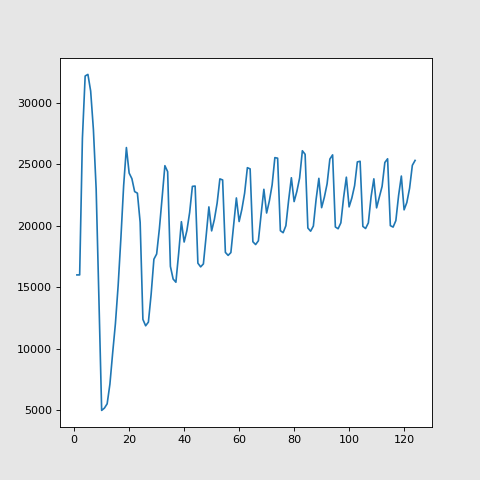
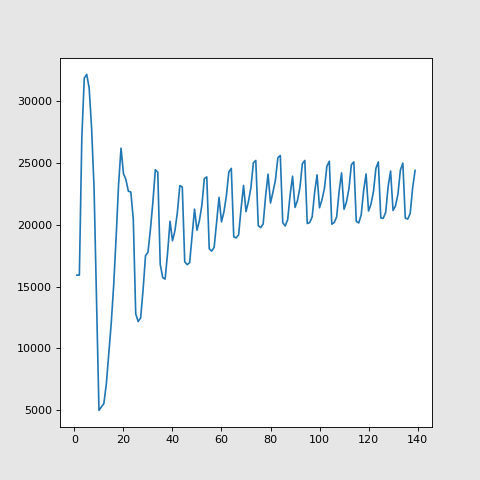
Что то происходит

diff --git a/lab2/src/organisms_1.py b/lab2/src/organisms_1.py
@@ -79,21 +79,23 @@ class CellularAutomaton:
         for i in range(self.N):
             for j in range(self.N):
                 if self.cells_state[i][j] == 1 and move[i][j] == 1:
-                    si = random.randint(-1, 1)
-                    sj = random.randint(-1, 1)
-                    if si == 0 and sj == 0:
-                        si = 1
-                    if i + si >= 0 and i + si < self.N and j + sj >= 0 and j + sj < self.N:
-                        if self.cells_state[i + si][j + sj] == 0:
-                            self.cells_state[i][j] = 0
-                            self.cells_state[i + si][j + sj] = 1
-                            move[i + si][j + sj] = 0
-                            self.e[i + si][j + sj] = self.e[i][j]
-                            self.life[i + si][j + sj] = self.life[i][j]
-                            self.e[i][j] = 0
-                            self.life[i][j] = 0
+                    directions = [(di, dj) for di in [-1, 0, 1] for dj in [-1, 0, 1] if not (di == 0 and dj == 0)]
+                    random.shuffle(directions)
 
-        # Размножение клеток
+                    for si, sj in directions:
+                        ni, nj = i + si, j + sj
+                        if 0 <= ni < self.N and 0 <= nj < self.N:
+                            if self.cells_state[ni][nj] == 0:
+                                self.cells_state[i][j] = 0
+                                self.cells_state[ni][nj] = 1
+                                move[ni][nj] = 0
+                                self.e[ni][nj] = self.e[i][j]
+                                self.life[ni][nj] = self.life[i][j]
+                                self.e[i][j] = 0
+                                self.life[i][j] = 0
+                                break
+
+            # Размножение клеток
         done = [[1] * self.N for i in range(self.N)]
         for i in range(self.N):
             for j in range(self.N):
